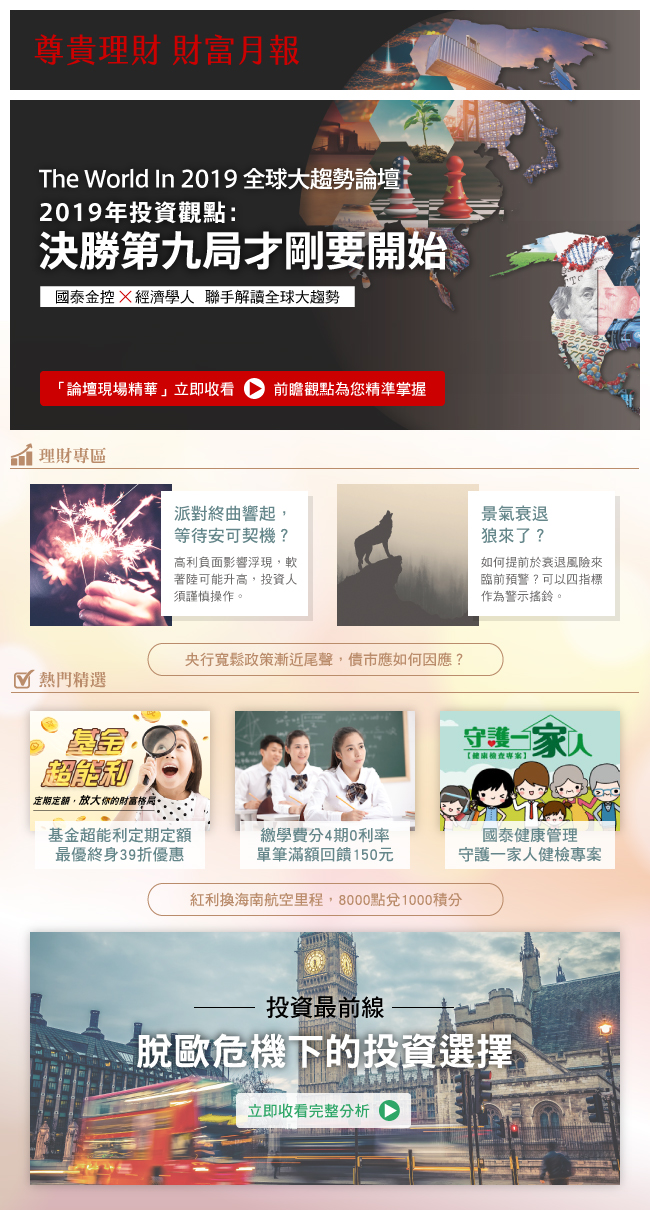
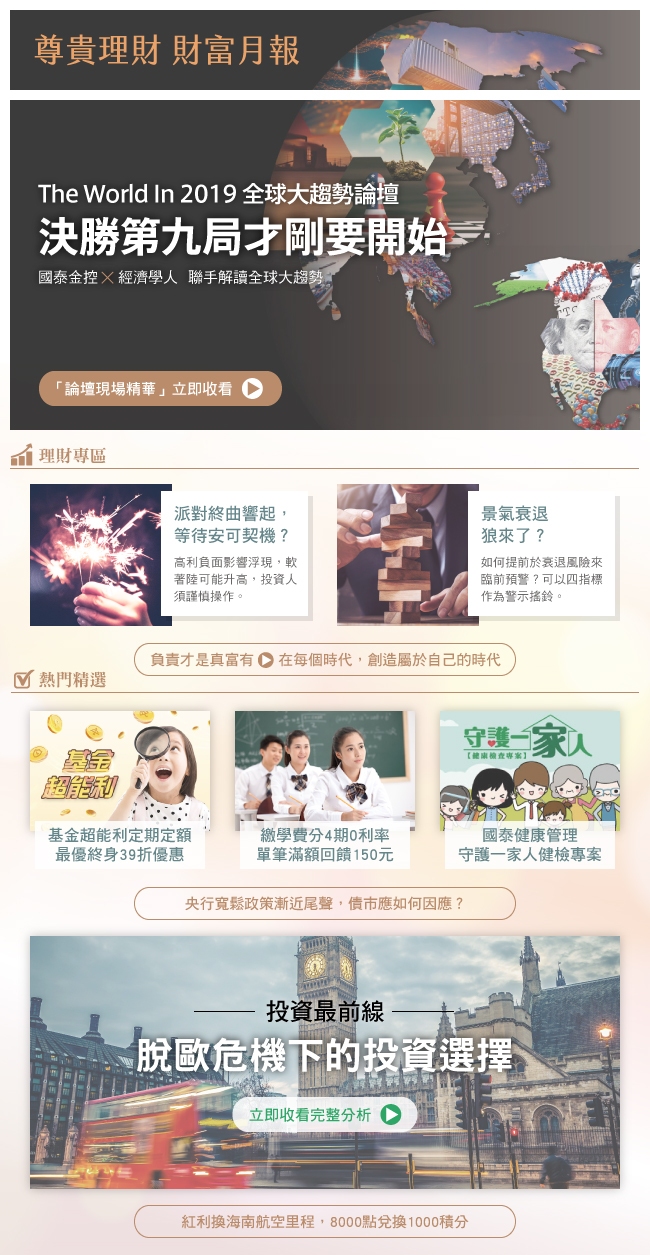
update

diff --git a/monthly-report-201901/index.html b/monthly-report-201901/index.html
@@ -49,7 +49,7 @@
 <table width="650" border="0" cellpadding="0" cellspacing="0">
 	<tr>
 		<td>
-			<img src="images/monthly-report-201901-2.jpg" alt="" width="650" height="1255" usemap="#Map2" border="0"></td>
+			<img src="images/monthly-report-201901.jpg" alt="" width="650" height="1255" usemap="#Map2" border="0"></td>
 	</tr>
 <tr>
 <td valign="middle" bgcolor="#CCCCCC" height="60"><table width="630" border="0" align="center" cellpadding="0" cellspacing="0">
@@ -121,13 +121,13 @@
   <area shape="rect" coords="10,355,641,430" href="https://www.youtube.com/watch?v=0S7ZXPg88Yo&CUB_SRC=WM_EDM&CUB_CHL1=BAN&CUB_CHL2=01&MA_TK=WM127&CUB_DT=20190110" target="_blank" alt="「論壇現場精華」立即收看">
 <area shape="rect" coords="29,483,315,627" href="https://www.cathaybk.com.tw/cathaybk/promo/event/wealth/product/201901/Wealth01/index.html?CUB_SRC=WM_EDM&CUB_CHL1=BAN&CUB_CHL2=01&MA_TK=WM127&CUB_DT=20190110" target="_blank" alt="派對終曲響起，等待安可契機？">
   <area shape="rect" coords="336,483,621,627" href="https://www.cathaybk.com.tw/cathaybk/promo/event/wealth/product/201901/Wealth02/index.html?CUB_SRC=WM_EDM&CUB_CHL1=BAN&CUB_CHL2=01&MA_TK=WM127&CUB_DT=20190110" target="_blank" alt="景氣衰退狼來了？">
-  <area shape="rect" coords="146,642,505,676" href="https://www.cathaybk.com.tw/cathaybk/promo/event/fund/cathayfund/market.html?CUB_SRC=WM_EDM&CUB_CHL1=BAN&CUB_CHL2=01&MA_TK=WM127&CUB_DT=20190110" target="_blank" alt="央行寬鬆政策漸近尾聲，債市應如何因應？">
+  <area shape="rect" coords="135,886,516,920" href="https://www.cathaybk.com.tw/cathaybk/promo/event/fund/cathayfund/market.html?CUB_SRC=WM_EDM&CUB_CHL1=BAN&CUB_CHL2=01&MA_TK=WM127&CUB_DT=20190110" target="_blank" alt="央行寬鬆政策漸近尾聲，債市應如何因應？">
   <area shape="rect" coords="29,710,212,870" href="https://www.cathaybk.com.tw/cathaybk/promo/event/fund/cathayfund/super/index.html?CUB_SRC=WM_EDM&CUB_CHL1=BAN&CUB_CHL2=01&MA_TK=WM127&CUB_DT=20190110" target="_blank" alt="基金超能利定期定額 最優終身39折優惠">
   <area shape="rect" coords="235,711,416,871" href="https://www.cathaybk.com.tw/cathaybk/personal/credit-card/discount/event/payment/billpayment-2019jan?CUB_SRC=WM_EDM&CUB_CHL1=BAN&CUB_CHL2=01&MA_TK=WM127&CUB_DT=20190110" target="_blank" alt="繳學費分4期0利率 單筆滿額回饋150元">
   <area shape="rect" coords="440,711,622,871" href="https://events.cathay-hcm.com.tw/content/3?utm_source=newsletter&utm_medium=email&utm_campaign=201901財富月報&utm_content=201901財富月報&CUB_SRC=WM_EDM&CUB_CHL1=BAN&CUB_CHL2=01&MA_TK=WM127&CUB_DT=20190110" target="_blank" alt="國泰健康管理 守護一家人健檢專案">
-  <area shape="rect" coords="148,1204,504,1239" href="https://www.cathaybk.com.tw/cathaybk/personal/credit-card/discount/bonus/point-exchange/airmiles/?CUB_SRC=WM_EDM&CUB_CHL1=BAN&CUB_CHL2=01&MA_TK=WM127&CUB_DT=20190110" target="_blank" alt="紅利換海南航空里程，8000點兌1000積分">
-  <area shape="rect" coords="30,936,621,1190" href="https://www.youtube.com/watch?v=IOcbYWyaMgc&feature=youtu.be&CUB_SRC=WM_EDM&CUB_CHL1=BAN&CUB_CHL2=01&MA_TK=WM127&CUB_DT=20190110" target="_blank" alt="《投資最前線》帶您看 脫歐危機下的投資選擇">
-  <area shape="rect" coords="147,887,504,921" href="https://www.youtube.com/watch?v=Fb0h1rydaC0&CUB_SRC=WM_EDM&CUB_CHL1=BAN&CUB_CHL2=01&MA_TK=WM127&CUB_DT=20190110" target="_blank" alt="負責是什麼&gt;在每個時代，創造屬於自己的時代">
+  <area shape="rect" coords="135,1204,516,1239" href="https://www.cathaybk.com.tw/cathaybk/personal/credit-card/discount/bonus/point-exchange/airmiles/?CUB_SRC=WM_EDM&CUB_CHL1=BAN&CUB_CHL2=01&MA_TK=WM127&CUB_DT=20190110" target="_blank" alt="紅利換海南航空里程，8000點兌換1000積分">
+  <area shape="rect" coords="30,935,621,1189" href="https://www.youtube.com/watch?v=IOcbYWyaMgc&feature=youtu.be&CUB_SRC=WM_EDM&CUB_CHL1=BAN&CUB_CHL2=01&MA_TK=WM127&CUB_DT=20190110" target="_blank" alt="《投資最前線》帶您看 脫歐危機下的投資選擇">
+  <area shape="rect" coords="135,643,517,676" href="https://www.youtube.com/watch?v=Fb0h1rydaC0&CUB_SRC=WM_EDM&CUB_CHL1=BAN&CUB_CHL2=01&MA_TK=WM127&CUB_DT=20190110" target="_blank" alt="負責是什麼&gt;在每個時代，創造屬於自己的時代">
 </map>
 </body>
 </html>

diff --git a/MR201901-html/201901_1/index.html b/MR201901-html/201901_1/index.html
@@ -98,7 +98,7 @@ div.text_in:after {
                 <div id="box2">
                    <div class="box_title b_22 b green">美國升息緩而不止，須格外留意經濟衰退前兆</div>
                     <div class="text_in">
-                         <p class="text_left_m10 s_18">首先，我們先來觀察貨幣政策的變化。上個月聯準會主席鮑威爾的談話表示，目前利率略低於中性利率（見圖一）；所謂中性利率指的是，在此利率水準下的產出等於潛在產出，意謂經濟體已達成充分就業，更高的利率可能損害經濟成長。所以市場普遍解讀為，2019年升息腳步將放緩，不過鮑威爾言論轉鴿，也頗有給川普交代的意味；再者過去美國升息時常會讓政策利率略高於中性利率，所以聯準會升息步伐雖會減緩，但腳步卻還不會停下。然而, 利率過高對各項經濟數據的負面影響的確已慢慢浮現。</p>
+                         <p class="text_left_m10 s_18">首先，我們先來觀察貨幣政策的變化。上個月聯準會主席鮑威爾的談話表示，目前利率略低於中性利率（見圖一）；所謂中性利率指的是，在此利率水準下的產出等於潛在產出，意謂經濟體已達成充分就業，更高的利率可能損害經濟成長。所以市場普遍解讀為，2019年升息腳步將放緩，不過鮑威爾言論轉鴿，也頗有給川普交代的意味；再者過去美國升息時常會讓政策利率略高於中性利率，所以聯準會升息步伐雖會減緩，但腳步卻還不會停下。然而，利率過高對各項經濟數據的負面影響的確已慢慢浮現。</p>
                          <p class="text_left_m10 s_18">在利率揚升趨勢不變下，另一個值得關注的重點則是美國公債殖利率曲線轉平，甚至長短利差轉負，也就是短期利率高於長期利率的現象。這曾在1990年、2001年及2007年出現過三次（見圖二），此後皆伴隨經濟衰退及股市下跌。2018年12月發生五年期與三年期利差轉負時，引發市場恐慌，道瓊工業指數單日下跌799點。不過，過去三次五年期與三年期利差轉負發生之後，到真正經濟衰退前平均需要26個月，因此目前就要說「經濟即將衰退」，還言之過早。</p>
                          <p class="text_left_m10 s_18">然而，目前十年期跟二年期公債利差僅剩20點不到，只要聯準會再繼續升息，就很可能降至零以下。因此，今年內看到長短利差轉負的機率很大，投資人需特別留意。</p>
 <div class="img">

diff --git a/MR201901-html/201901_2/index.html b/MR201901-html/201901_2/index.html
@@ -86,7 +86,7 @@ div.text_in:after {
          </div>
          <div class="in">
             <div id="box_text">
-                <p class="text_left s_20" >08年海嘯後，美股多頭邁入第10個年頭。利率水準墊高，企業資本支出減少及經濟增速漸緩，經濟衰退狼來了嗎？如何提前預警，可以4個指標作為搖鈴，以求投資趨吉避凶。</p>            
+                <p class="text_left s_20" >2008年金融海嘯後，美股多頭邁入第10個年頭。利率水準逐步墊高，企業資本支出減少及經濟增速漸緩，經濟衰退狼來了嗎？如何提前預警，可以4個指標作為搖鈴，以求投資趨吉避凶。</p>            
             </div>           
          <div class="box_in">               
                 <div id="box1">
@@ -110,7 +110,7 @@ div.text_in:after {
                                            <p class="text_left_m10 s_18">若雙方衝突持續惡化，將使全球貿易量縮減，企業信心下滑，將加快步入衰退，狼可能將突然現身 (見圖2)。根據我們內部經濟衰退模型顯示，目前衰退機率尚低，利率上升壓力加上貿易戰的影響，及美國房市下滑，景氣轉弱跡象漸浮現，衰退機率可能快速飆升，不可掉以輕心。</p>
   <div class="img">
                             <img src="img/pic2.jpg">
-                            <p>
+                            <p>註：2018年為目前市場預估值，虛線為加計IMF推估中美貿易戰影響後的預估值<br>
 資料來源：Bloomberg
 </p>
                           </div> 
